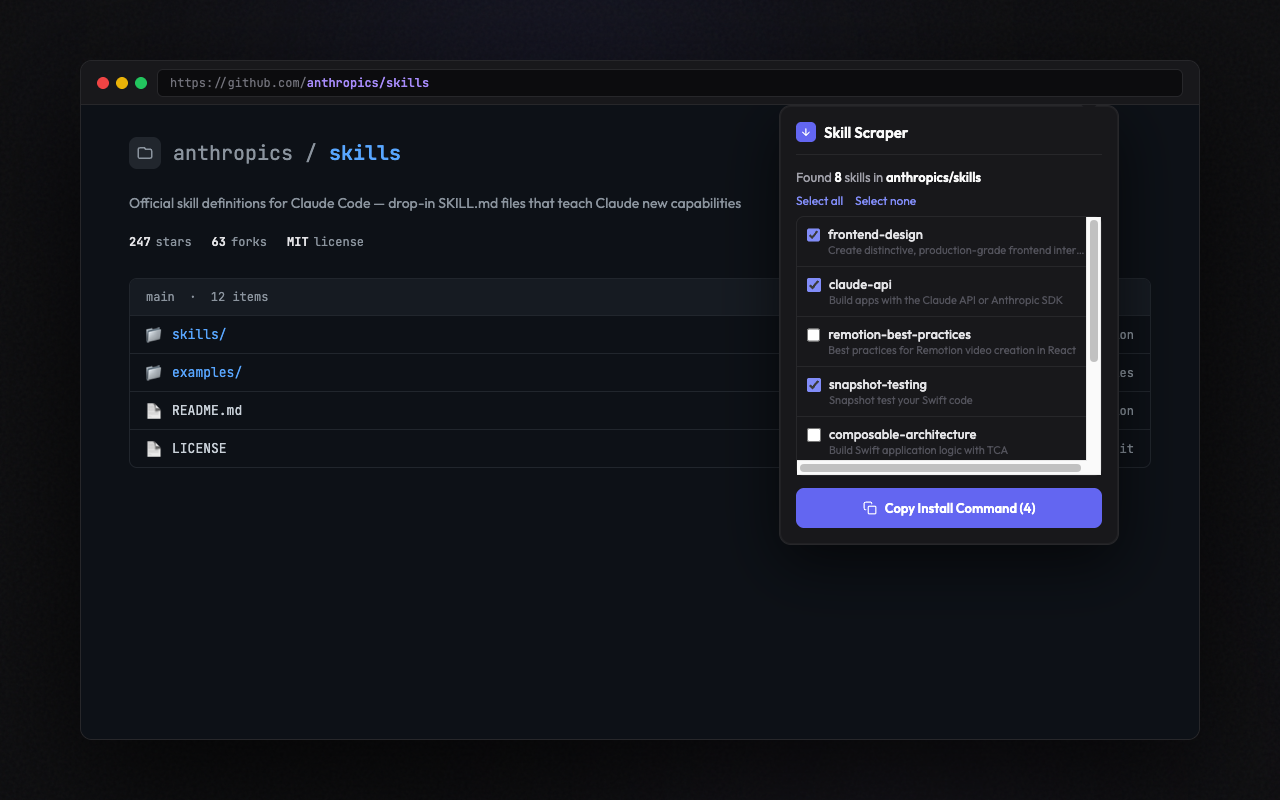
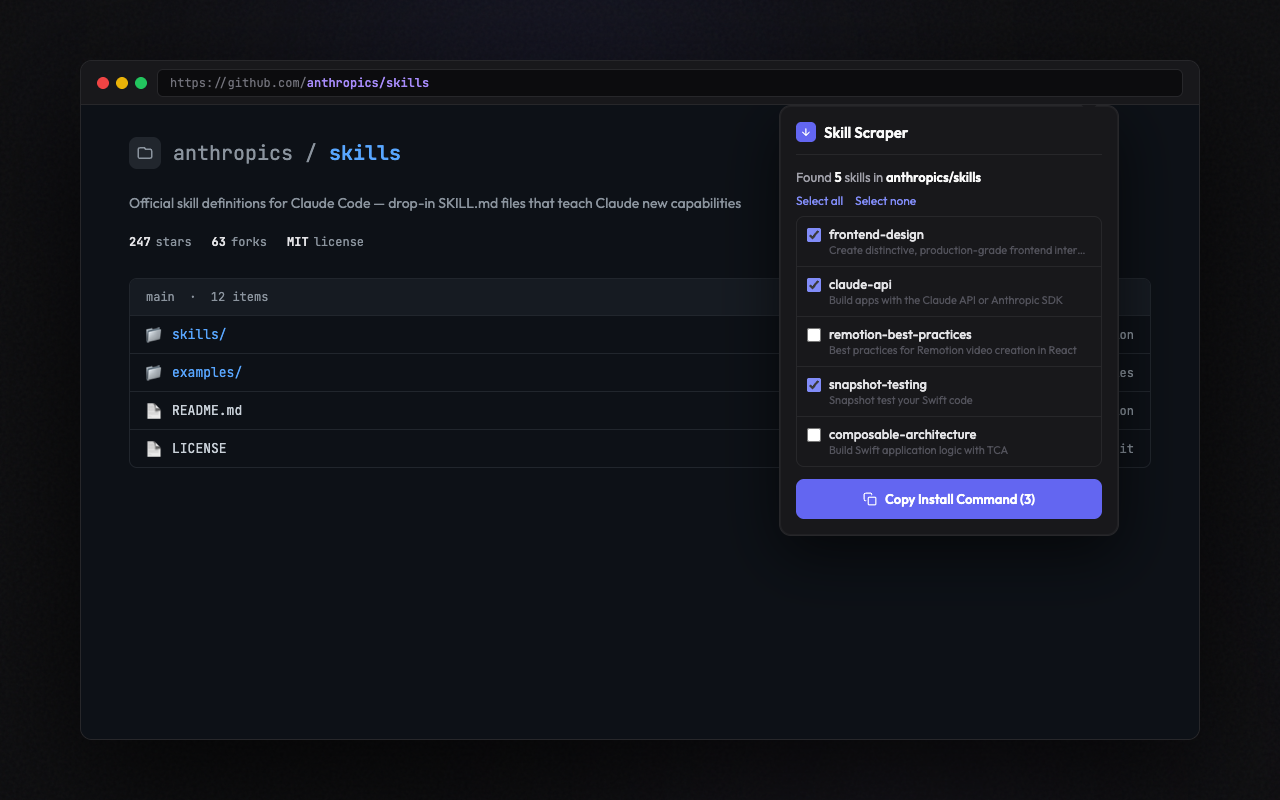
Fix multi-skill screenshot — remove scrollbar by reducing to 5 items

Changed region(s): [[0.625, 0.25, 0.875, 0.6875], [0.625, 0.4062, 0.75, 0.4375], [0.625, 0.2812, 0.7188, 0.3125]]

diff --git a/graphics/screenshot-2-multi-skill.html b/graphics/screenshot-2-multi-skill.html
@@ -233,7 +233,7 @@
               </div>
               <h2>Skill Scraper</h2>
             </div>
-            <div class="found">Found <b>8</b> skills in <b>anthropics/skills</b></div>
+            <div class="found">Found <b>5</b> skills in <b>anthropics/skills</b></div>
             <div class="actions-row">
               <button class="btn-link">Select all</button>
               <button class="btn-link">Select none</button>
@@ -244,13 +244,10 @@
               <li><input type="checkbox"><div class="skill-item-info"><span class="skill-item-name">remotion-best-practices</span><span class="skill-item-desc">Best practices for Remotion video creation in React</span></div></li>
               <li><input type="checkbox" checked><div class="skill-item-info"><span class="skill-item-name">snapshot-testing</span><span class="skill-item-desc">Snapshot test your Swift code</span></div></li>
               <li><input type="checkbox"><div class="skill-item-info"><span class="skill-item-name">composable-architecture</span><span class="skill-item-desc">Build Swift application logic with TCA</span></div></li>
-              <li><input type="checkbox" checked><div class="skill-item-info"><span class="skill-item-name">modern-swiftui</span><span class="skill-item-desc">Build complex SwiftUI views using best practices</span></div></li>
-              <li><input type="checkbox"><div class="skill-item-info"><span class="skill-item-name">swift-navigation</span><span class="skill-item-desc">State-driven navigation patterns in Swift</span></div></li>
-              <li><input type="checkbox"><div class="skill-item-info"><span class="skill-item-name">identified-collections</span><span class="skill-item-desc">Performant, ergonomic collection access</span></div></li>
             </ul>
             <button class="btn">
               <svg viewBox="0 0 24 24" fill="none" stroke="currentColor" stroke-width="2" stroke-linecap="round"><rect x="9" y="9" width="13" height="13" rx="2"/><path d="M5 15H4a2 2 0 01-2-2V4a2 2 0 012-2h9a2 2 0 012 2v1"/></svg>
-              Copy Install Command (4)
+              Copy Install Command (3)
             </button>
           </div>
         </div>
